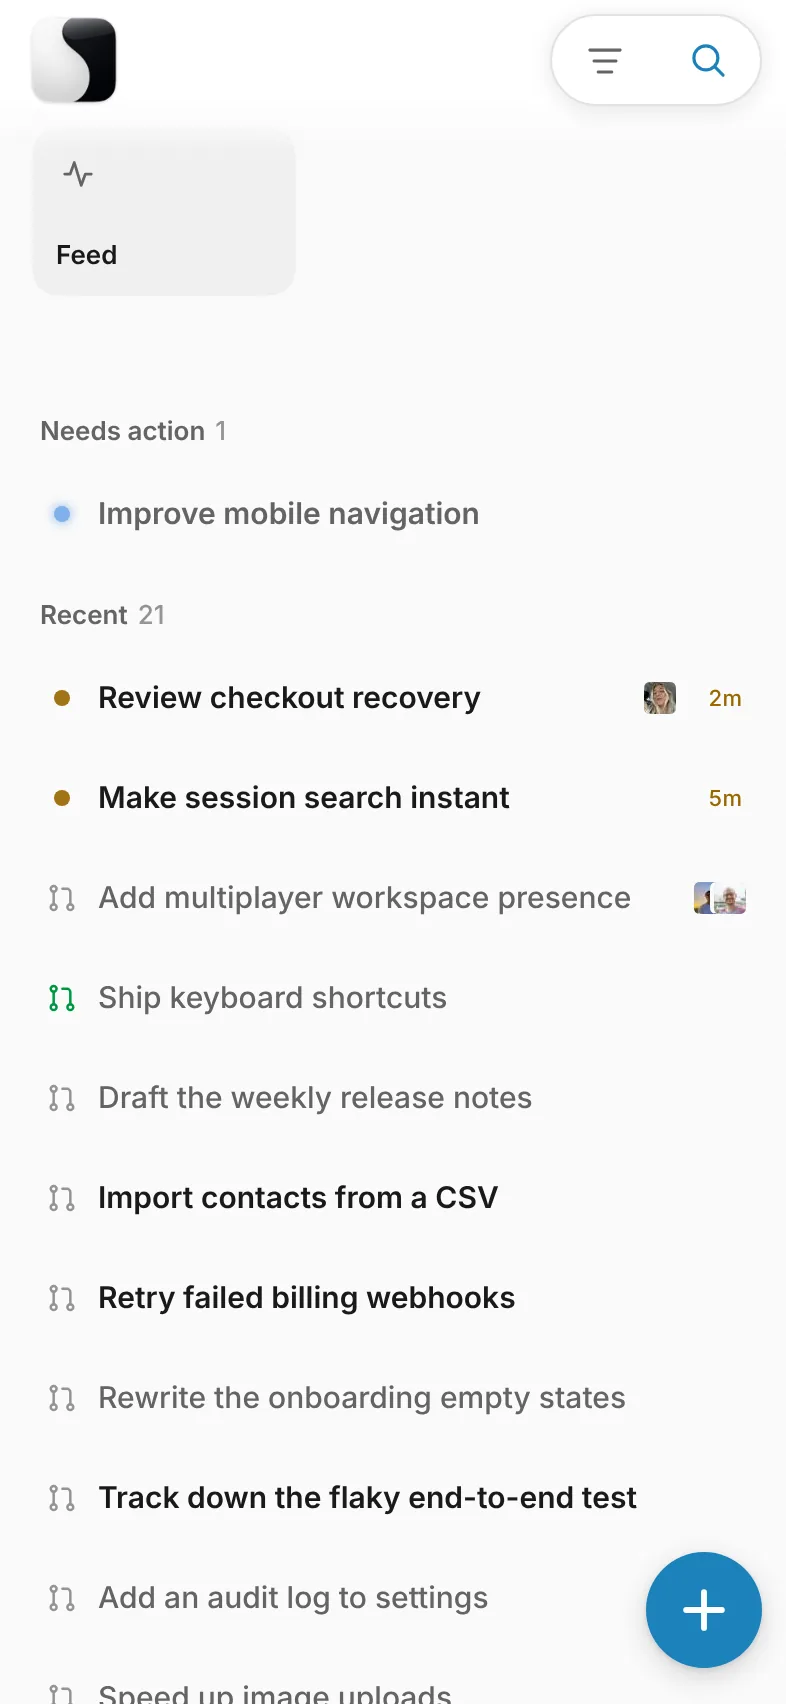
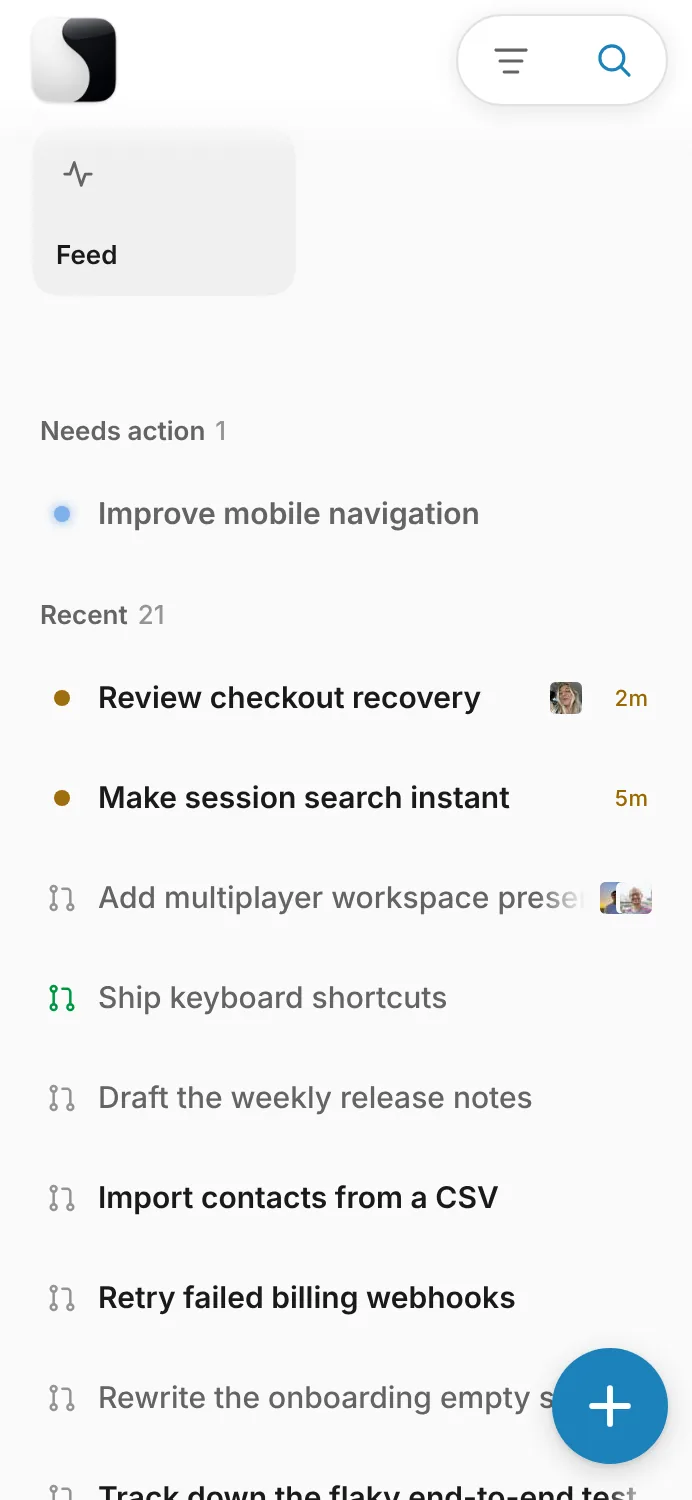
Landing page: one zoom for both devices
The window was drawing the app at 1.4x life size and the phone at 1.06x, so
the phone's UI read as small beside it. Both now carry 1.2x: the window lays
the app out at 1260 rather than 1080 against the 1512pt a 14-inch MacBook Pro
really has, and the phone's poster is shot at 346pt rather than 393 against
the 415 its body would carry. A page is looked at from desk distance rather
than held, which is why the pair sits over life size rather than on it.

diff --git a/scripts/capture-demo-poster.ts b/scripts/capture-demo-poster.ts
@@ -27,8 +27,16 @@ import {
 const ROOT = join(import.meta.dir, "..");
 const DIST = join(ROOT, ".website-dist");
 
-/** The app's layout width in the preview. Keep in step with ProductDemo.tsx. */
-const APP_WIDTH = 1080;
+/**
+ * The app's layout width in the preview. Keep in step with ProductDemo.tsx.
+ *
+ * It is a zoom, not a taste. The window stands for a 14-inch MacBook Pro's
+ * screen, which is 1512pt across, so laying the app out at 1260 draws its UI
+ * at 1.2x life size: a page is looked at from desk distance rather than held,
+ * and at 1.0x the product in it stops being readable. The phone below carries
+ * the same 1.2x, which is what keeps the two from disagreeing.
+ */
+const APP_WIDTH = 1260;
 /**
  * The desktop window's aspect: a 3:2 stage less an even 5.6% inset on all four
  * sides, which is 0.888W by 0.5547W. Narrower windows crop the poster from the
@@ -36,10 +44,13 @@ const APP_WIDTH = 1080;
  */
 const APP_HEIGHT = Math.round((APP_WIDTH * 0.5547) / 0.888);
 
-/** The phone beside it: an iPhone's own logical size, so the app lays out the
- *  way it does on a real one rather than at a made-up narrow width. */
-const PHONE_WIDTH = 393;
-const PHONE_HEIGHT = 852;
+/**
+ * The phone beside it, at the same 1.2x. An iPhone 17 Pro is 393pt across a
+ * 68mm screen in a 71.9mm body, and the poster fills the body, so 346pt is
+ * that device's UI drawn 1.2x life. The shape stays the device's own.
+ */
+const PHONE_WIDTH = 346;
+const PHONE_HEIGHT = Math.round((PHONE_WIDTH * 852) / 393);
 
 const SHOTS = [
   { name: "demo-poster", width: APP_WIDTH, height: APP_HEIGHT, mobile: false, dpr: 2 },

diff --git a/website/ProductDemo.tsx b/website/ProductDemo.tsx
@@ -4,10 +4,13 @@ import posterDarkUrl from "./demo-poster-dark.webp";
 import phoneUrl from "./demo-phone.webp";
 import phoneDarkUrl from "./demo-phone-dark.webp";
 
-/* The width the app is laid out at before it is scaled to fit the window. It
-   is what decides how large the product reads: a wider layout means smaller
-   UI and more of the real interface in the same frame. */
-const desktopDemoWidth = 1080;
+/* The width the app is laid out at before it is scaled to fit the window, and
+   so what decides how large the product reads. The window stands for a
+   14-inch MacBook Pro's screen, which is 1512pt across, so this draws the UI
+   at 1.2x life size: enough over life to stay readable on a page you look at
+   from desk distance, and the same zoom the phone beside it carries. Keep it
+   in step with scripts/capture-demo-poster.ts. */
+const desktopDemoWidth = 1260;
 
 export function ProductDemo() {
 	const previewRef = useRef<HTMLElement>(null);
